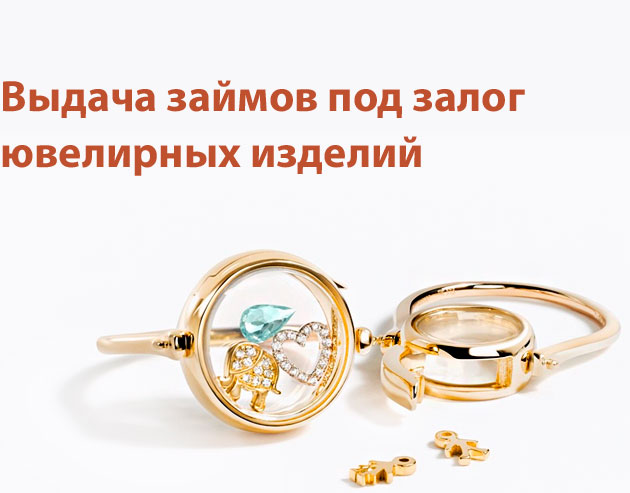
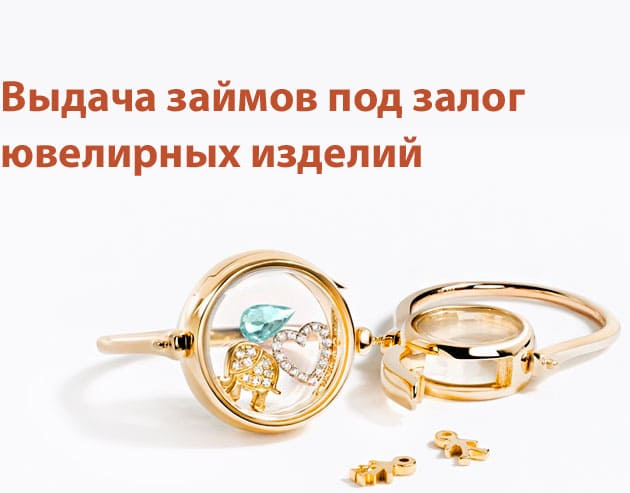
Created calculator and optimized images

diff --git a/index.html b/index.html
@@ -13,13 +13,11 @@
     <header class = "container main-header ">
       <div class = "header-top-wrap">
         <div class = "header-top">
-          <!-- <div class = "wrapper-xl row"> -->
             <i class = "ico-location"></i>
             <span class = "location">Усолье-Сибирское, ул.Менделеева, д.42</span>
               <a class = "details details-location" href = "#"> выбрать отделение</a>
             <span class = "phone">+7 (999) 147 14 14</span>
             <span class = "time-work">Режим работы: пн.-пт. с 10:00 до 19:00</span>
-          <!-- </div> -->
         </div>  
       </div>
       <div class = "header-bottom-wrap">
@@ -53,7 +51,7 @@
       </div>
     </header>
     <main>
-      <div class="container wraper-sm">
+      <div class="container">
         <section class = "our-price-tag row">
           <div class = "col-xl-7 col-lg-6 col-md-12 slider-md-wrap">
             <ul id = "slider">
@@ -80,22 +78,22 @@
                     </div>
                 </form>
                 <div class = "row calc-buttons">
-                  <div class = "col-9">
+                  <div class = "col-9 buttons-probe">
                     <span class = "col-12 gold-title">Укажите пробу золота</span>
-                    <button class = "col-3 btn btn-secondary gold-button" type = "button" selected>375</button>
-                    <button class = "col-3 btn btn-secondary gold-button" type = "button">583</button>
-                    <button class = "col-3 btn btn-secondary gold-button" type = "button">585</button>
-                    <button class = "col-3 btn btn-secondary gold-button" type = "button">750</button>
+                    <button class = "col-3 btn btn-secondary gold-button" type = "button" id = "375">375</button>
+                    <button class = "col-3 btn btn-secondary gold-button" type = "button" id = "583">583</button>
+                    <button class = "col-3 btn btn-secondary gold-button" type = "button" id = "585">585</button>
+                    <button class = "col-3 btn btn-secondary gold-button active" type = "button" id = "750">750</button>
                   </div>
-                  <div class = "col-3">
+                  <div class = "col-3 buttons-probe">
                     <span class = "col-12 silver-title">Серебро</span>
-                    <button class = "col-12 btn btn-secondary silver-button" type = "button">925</button>
+                    <button class = "col-12 btn btn-secondary silver-button" type = "button" id = "925">925</button>
                   </div>
                 </div>
                 <div class="row">
-                  <div class = "col-12">
-                    <button class="col-6 btn btn-secondary quality" type = "button">Ликвидное</button>
-                    <button class="col-6 btn btn-secondary quality" type = "button">Лом</button>
+                  <div class = "col-12 buttons-quality">
+                    <button class="col-6 btn btn-secondary quality" type = "button" id = "liquid">Ликвидное</button>
+                    <button class="col-6 btn btn-secondary quality active" type = "button" id = "scrap">Лом</button>
                   </div>
                 </div>
               </div>
@@ -164,7 +162,7 @@
             </div>
           </section>
         </div>
-      <div class = "container wraper-sm">
+      <div class = "container">
         <section class = "how-we-work сontainer">
           <h4 class = "how-we-work-title">Как мы работаем</h4>
           <section class = "steps-work row text-center">
@@ -209,7 +207,7 @@
           </section>
         </section>
       </div>
-      <div class = "container wraper-sm">
+      <div class = "container">
         <section class = "about-us">
           <h4 class = "about-us-title">О компании</h4>
           <p class = "about-us-description">
@@ -223,7 +221,7 @@
       </div>
     </main>
     <footer class = "main-footer">
-      <div class="container wraper-sm">
+      <div class="container">
         <div class = "right-reserved"> 
           <ul class = "nav navbar-nav">
             <li class="footer-navbar-item"><a href="#">О нас</a></li>

diff --git a/JS/script.js b/JS/script.js
@@ -1,4 +1,86 @@
 "use strict";
+//Калькулятор
+
+var input = document.querySelector(".weight-item");
+
+var g_375 = document.getElementById("375");
+var g_583 = document.getElementById("583");
+var g_585 = document.getElementById("585");
+var g_750 = document.getElementById("750");
+var g_925 = document.getElementById("925");
+
+var liquid = document.getElementById("liquid");
+var scrap = document.getElementById("scrap");
+
+var input_value = 0;
+var calc_probe = 1800;
+var calc_quality = 2;
+
+var result = document.getElementById("result");
+
+g_375.onclick = function(){
+    calc_probe = 900;
+    remove_active_simple(this);
+    calculate(input_value,calc_probe,calc_quality);
+}
+
+g_583.onclick = function(){
+    calc_probe = 1200;
+    remove_active_simple(this);
+    calculate(input_value,calc_probe,calc_quality);
+}
+
+g_585.onclick = function(){
+    calc_probe = 1600;
+    remove_active_simple(this);
+    calculate(input_value,calc_probe,calc_quality);
+}
+
+g_750.onclick = function(){
+    calc_probe = 1800;
+    remove_active_simple(this);
+    calculate(input_value,calc_probe,calc_quality);
+}
+
+g_925.onclick = function(){
+    calc_probe = 2300;
+    remove_active_simple(this);
+    calculate(input_value,calc_probe,calc_quality);
+}
+
+liquid.onclick = function(){
+    calc_quality = 4;
+    remove_active_quality(this);
+    calculate(input_value,calc_probe,calc_quality);
+}
+
+scrap.onclick = function(){
+    calc_quality = 2;
+    remove_active_quality(this);
+    calculate(input_value,calc_probe,calc_quality);
+}
+
+
+function remove_active_simple(elem){
+    document.querySelectorAll('.buttons-probe .active').forEach(n => n.classList.remove('active')) //Удаляет класс active у дочерних элементов buttons-probe
+    elem.classList.add("active");
+}
+
+input.oninput = function() {
+    input_value = input.value; //Запись изменения поля input
+    calculate(input_value,calc_probe,calc_quality);
+};
+
+function remove_active_quality(elem){
+    document.querySelectorAll('.buttons-quality .active').forEach(n => n.classList.remove('active'))
+    elem.classList.add("active");
+}
+
+function calculate (weight, probe, quality){
+    var calc_result = weight * probe * quality;
+    result.innerHTML = calc_result;
+}
+
 // Слайдер 
 var next = document.getElementById('next');
 var prew = document.getElementById('prew');
@@ -34,6 +116,7 @@ prew.onclick = function () {
         }
     }
 }
+
 //Слайдер поступлений
 	var next_item = document.getElementById("next-items");
 	var prew_item = document.getElementById("prew-items");
